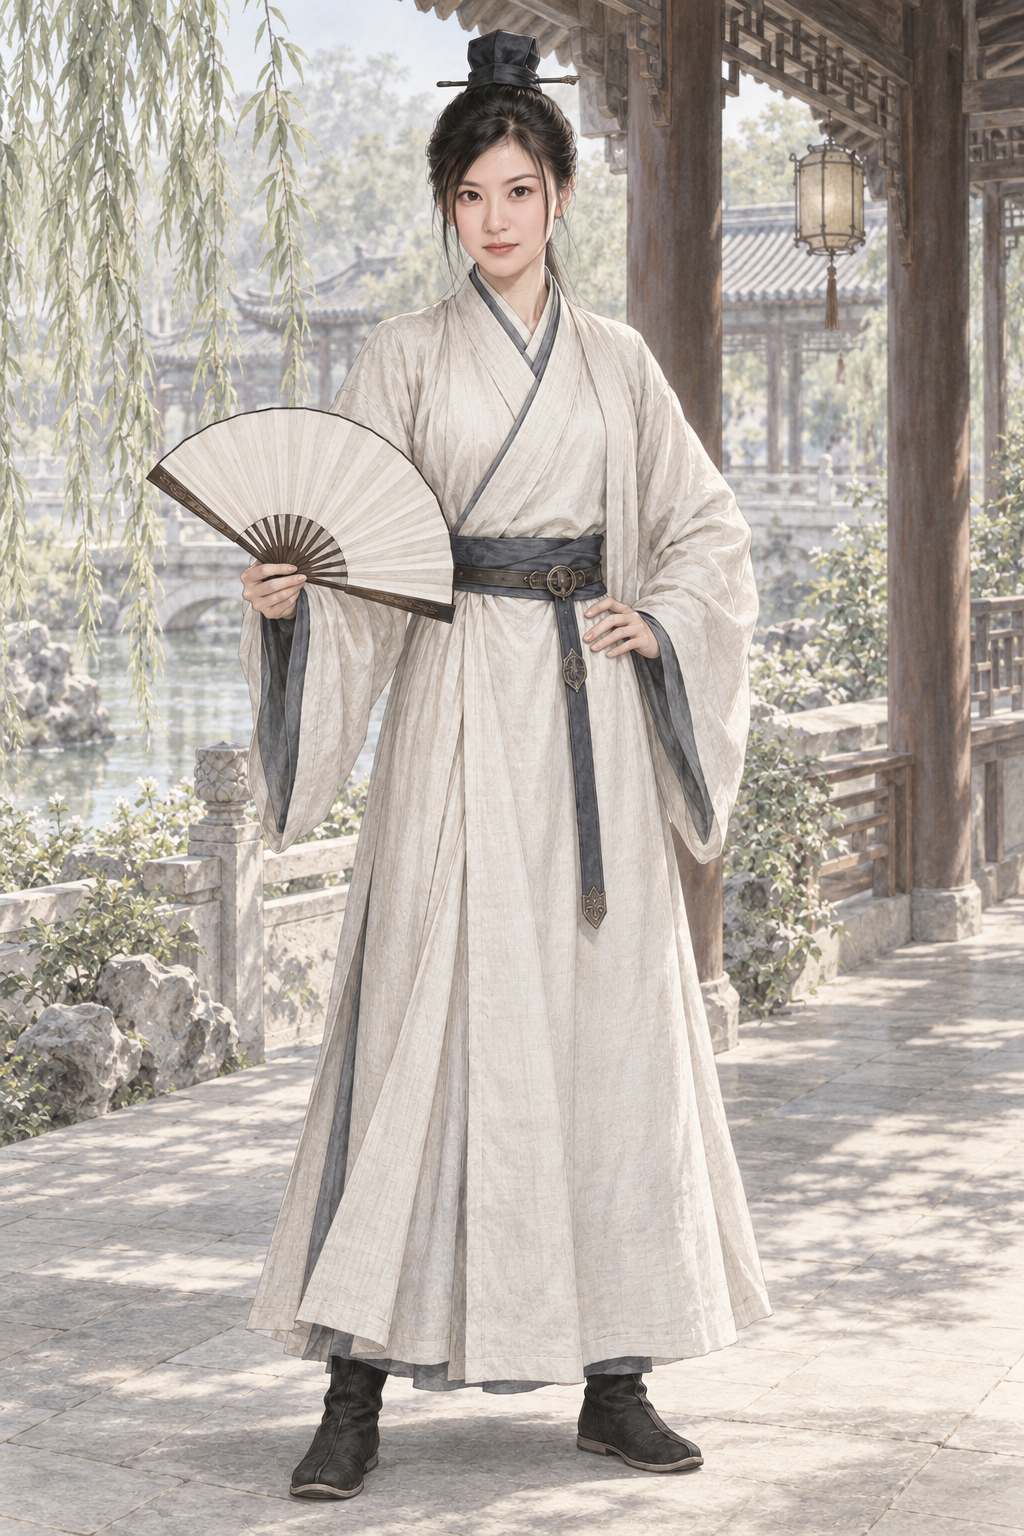
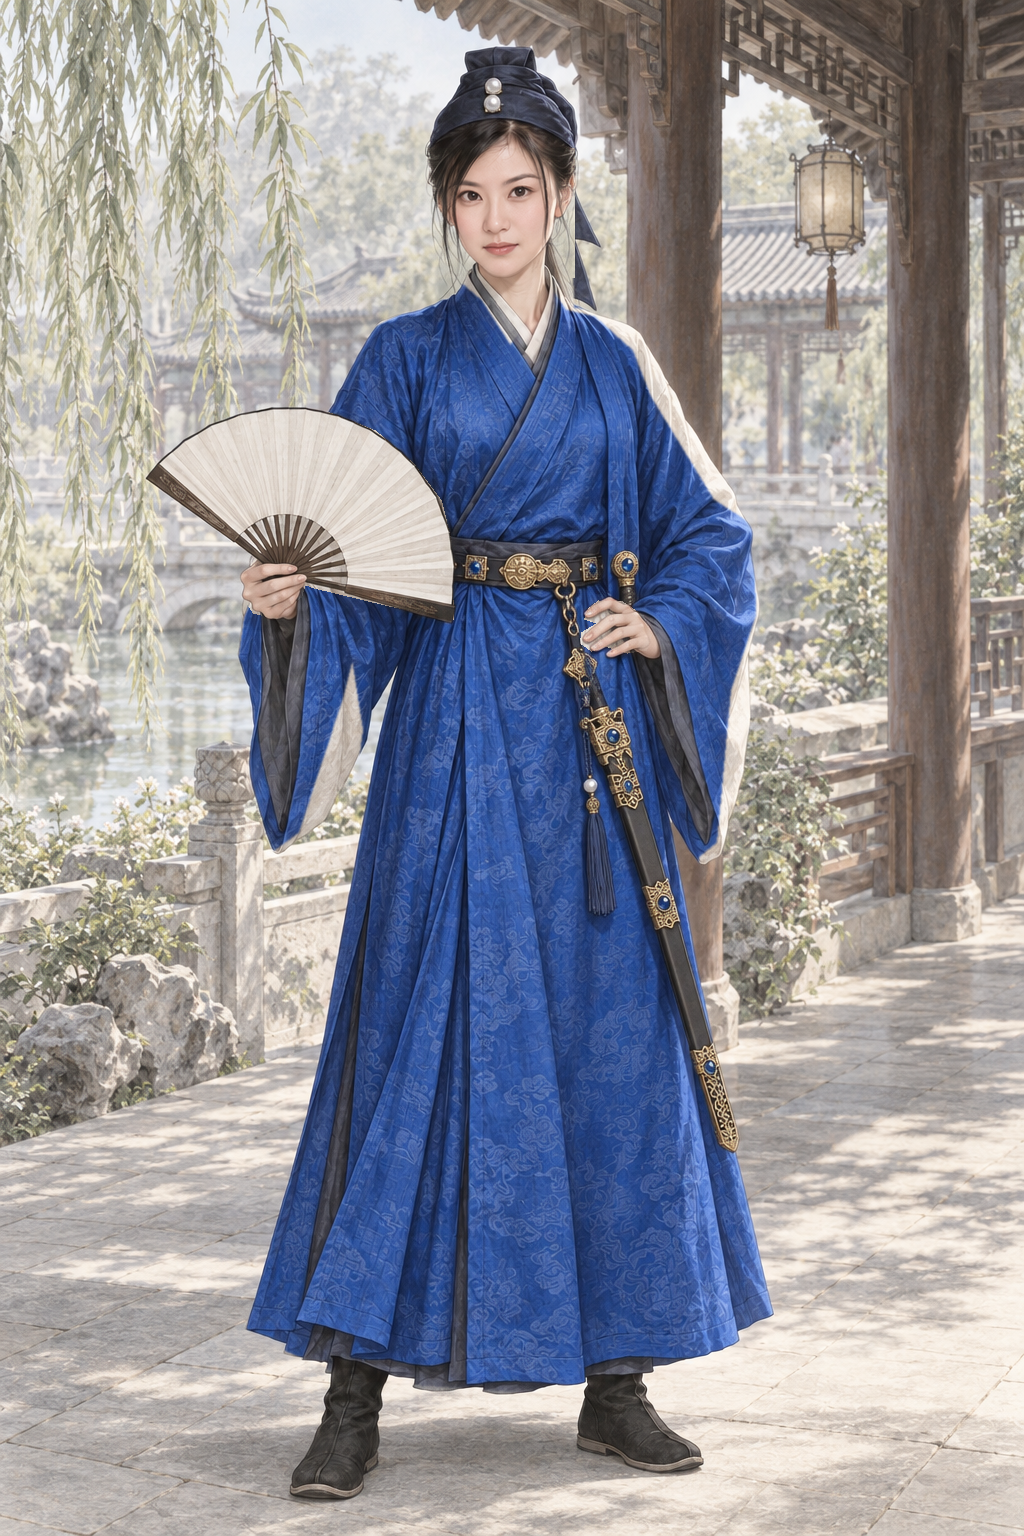
assets: AR-82 原著核对返修 赵敏绿柳场景同步宝蓝衣双珠头巾腰佩倚天
原著摘句已同步提示词；已打开验图；蒙版外0像素变化。

Executed-By: Codex gpt-6.1-sol（AR-82）

Changed region(s): [[0.2188, 0.125, 0.75, 0.9062], [0.4062, 0.0, 0.5625, 0.0938]]

diff --git a/assets/default/prompts/characters/ch04-yitian/npc_zhaomin__scene_lvliu.md b/assets/default/prompts/characters/ch04-yitian/npc_zhaomin__scene_lvliu.md
@@ -122,3 +122,10 @@ Create a premium REALISTIC Chinese wuxia character illustration with a delicate 
 - 采用作者授权宽松自查；偏差如实记录，candidate不代表approved。
 - 源PNG通常为1024×1536 RGB；其他原生2:3尺寸如实登记，原字节保存，不裁切、重编码、放大或去除溯源。
 - 完整请求、实际参考哈希及旧版本备份见 `.agents/coord/portrait-generation/realism-20261001/por_npc_zhaomin__ch04_youth_scene_lvliu.prepared.json`。
+
+## 原著依据
+
+- 《倚天屠龙记》二十三 灵芙醉客绿柳庄：“身穿宝蓝绸衫”；https://www.xuges.com/wuxia/jinyong/yttlj/168.htm
+- 《倚天屠龙记》二十三 灵芙醉客绿柳庄：“黄金为钩、宝带为束，悬着一柄长剑”；https://www.xuges.com/wuxia/jinyong/yttlj/168.htm
+- 《倚天屠龙记》二十三 灵芙醉客绿柳庄：“头巾上两粒龙眼般大的明珠莹然生光”；https://www.xuges.com/wuxia/jinyong/yttlj/168.htm
+- AR-82 返修约束（本节优先于历史提示词）：只修改赵敏本人三处：白色袍改成初见阶段宝蓝绸衫，保留原款式褶皱；发冠换成男装头巾，上有两粒龙眼大的明珠；腰间黄金钩宝带悬完整倚天长剑鞘，向腿旁斜垂。原脸、眼神、表情、手及手里折扇、所有背景完全不动。
